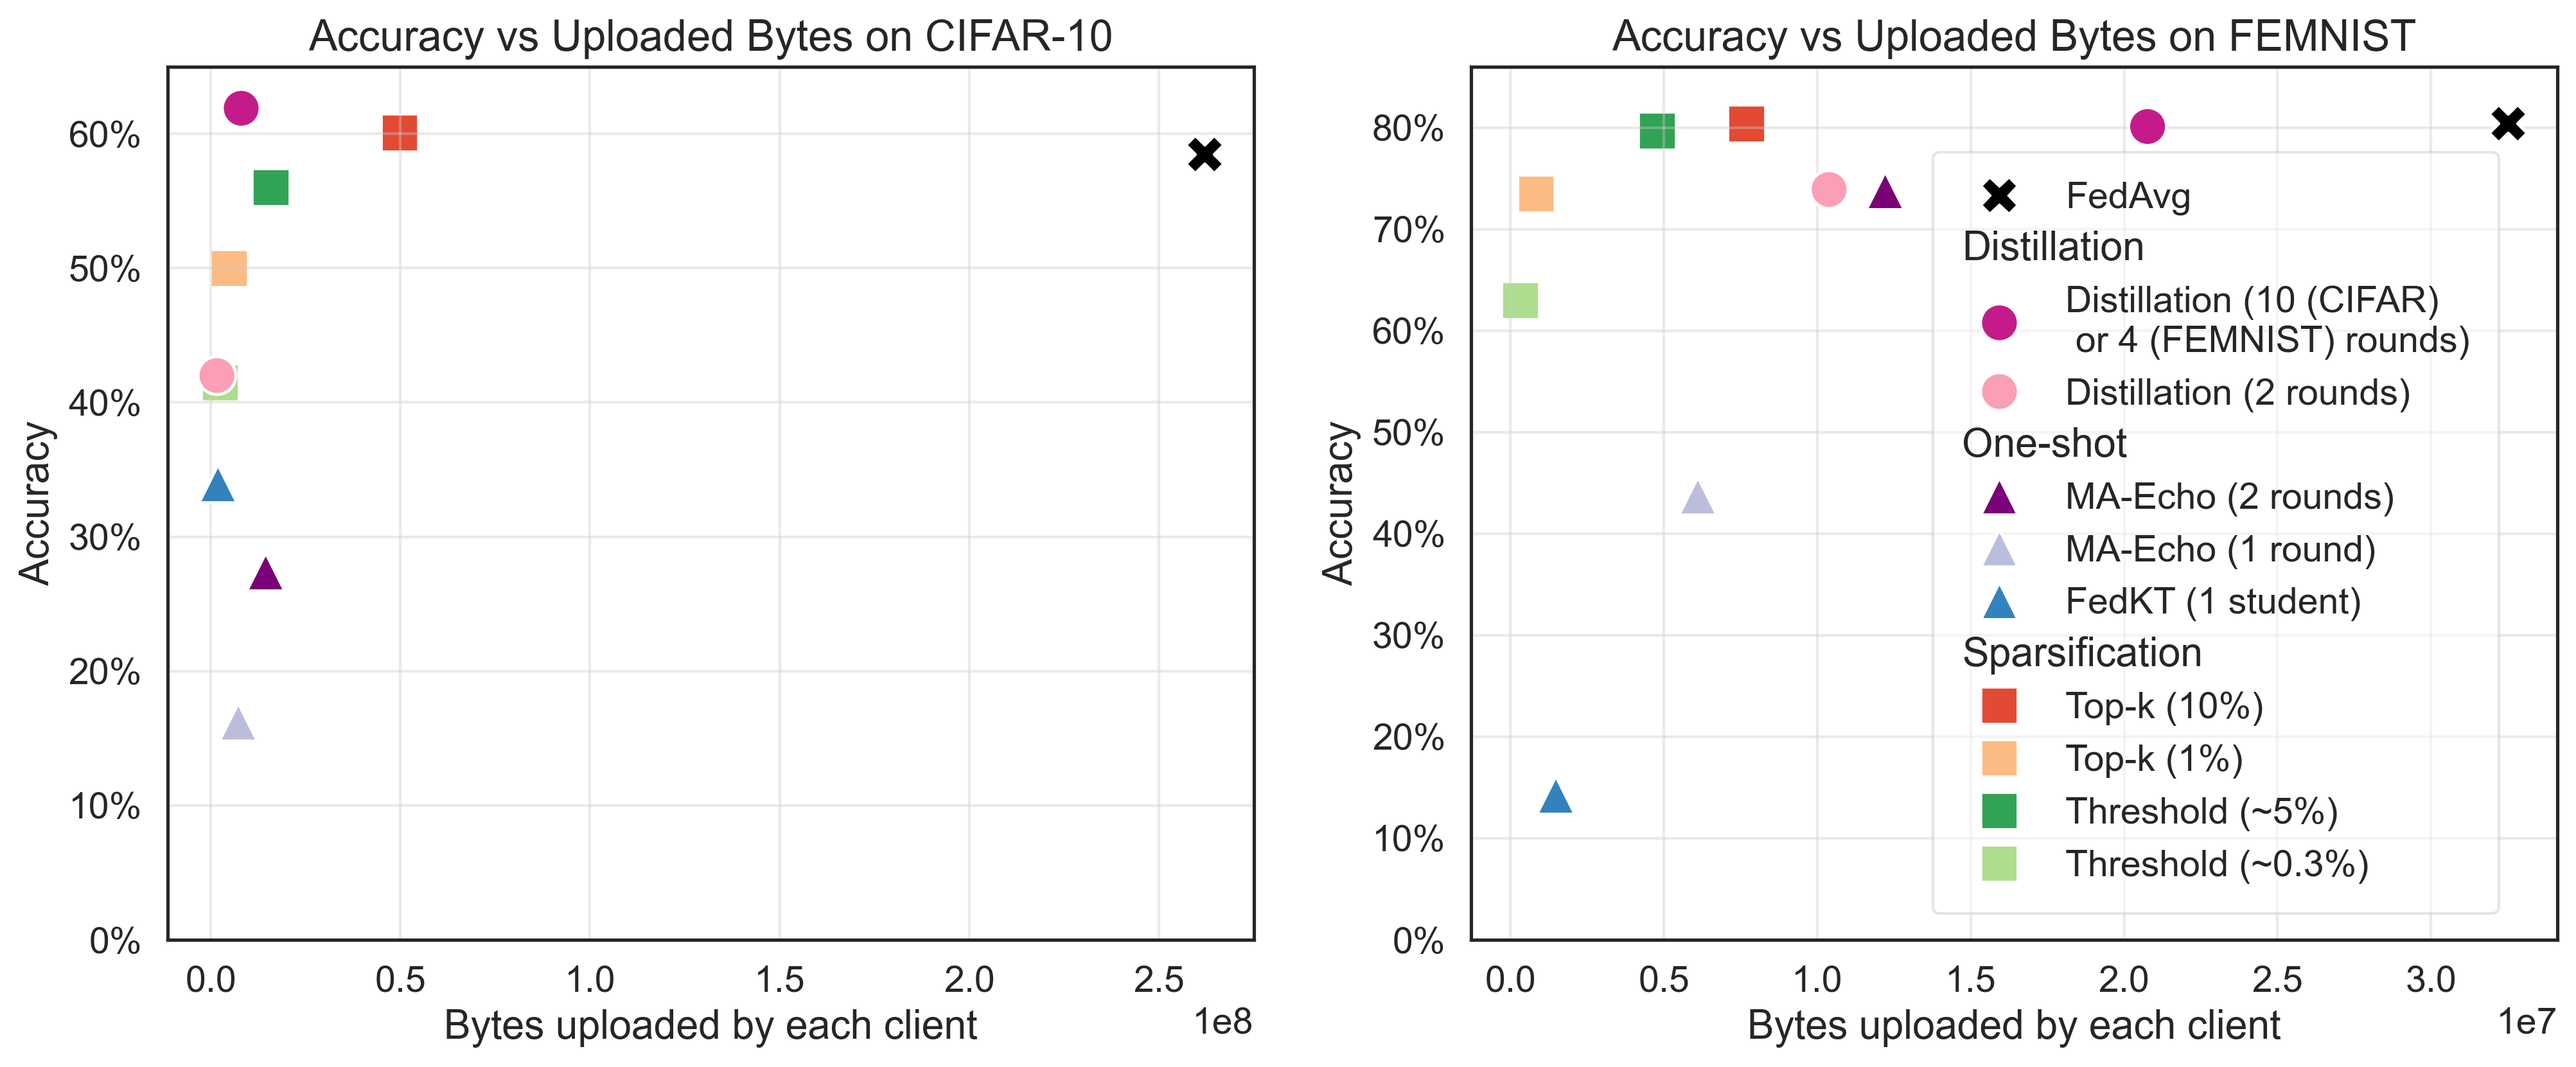
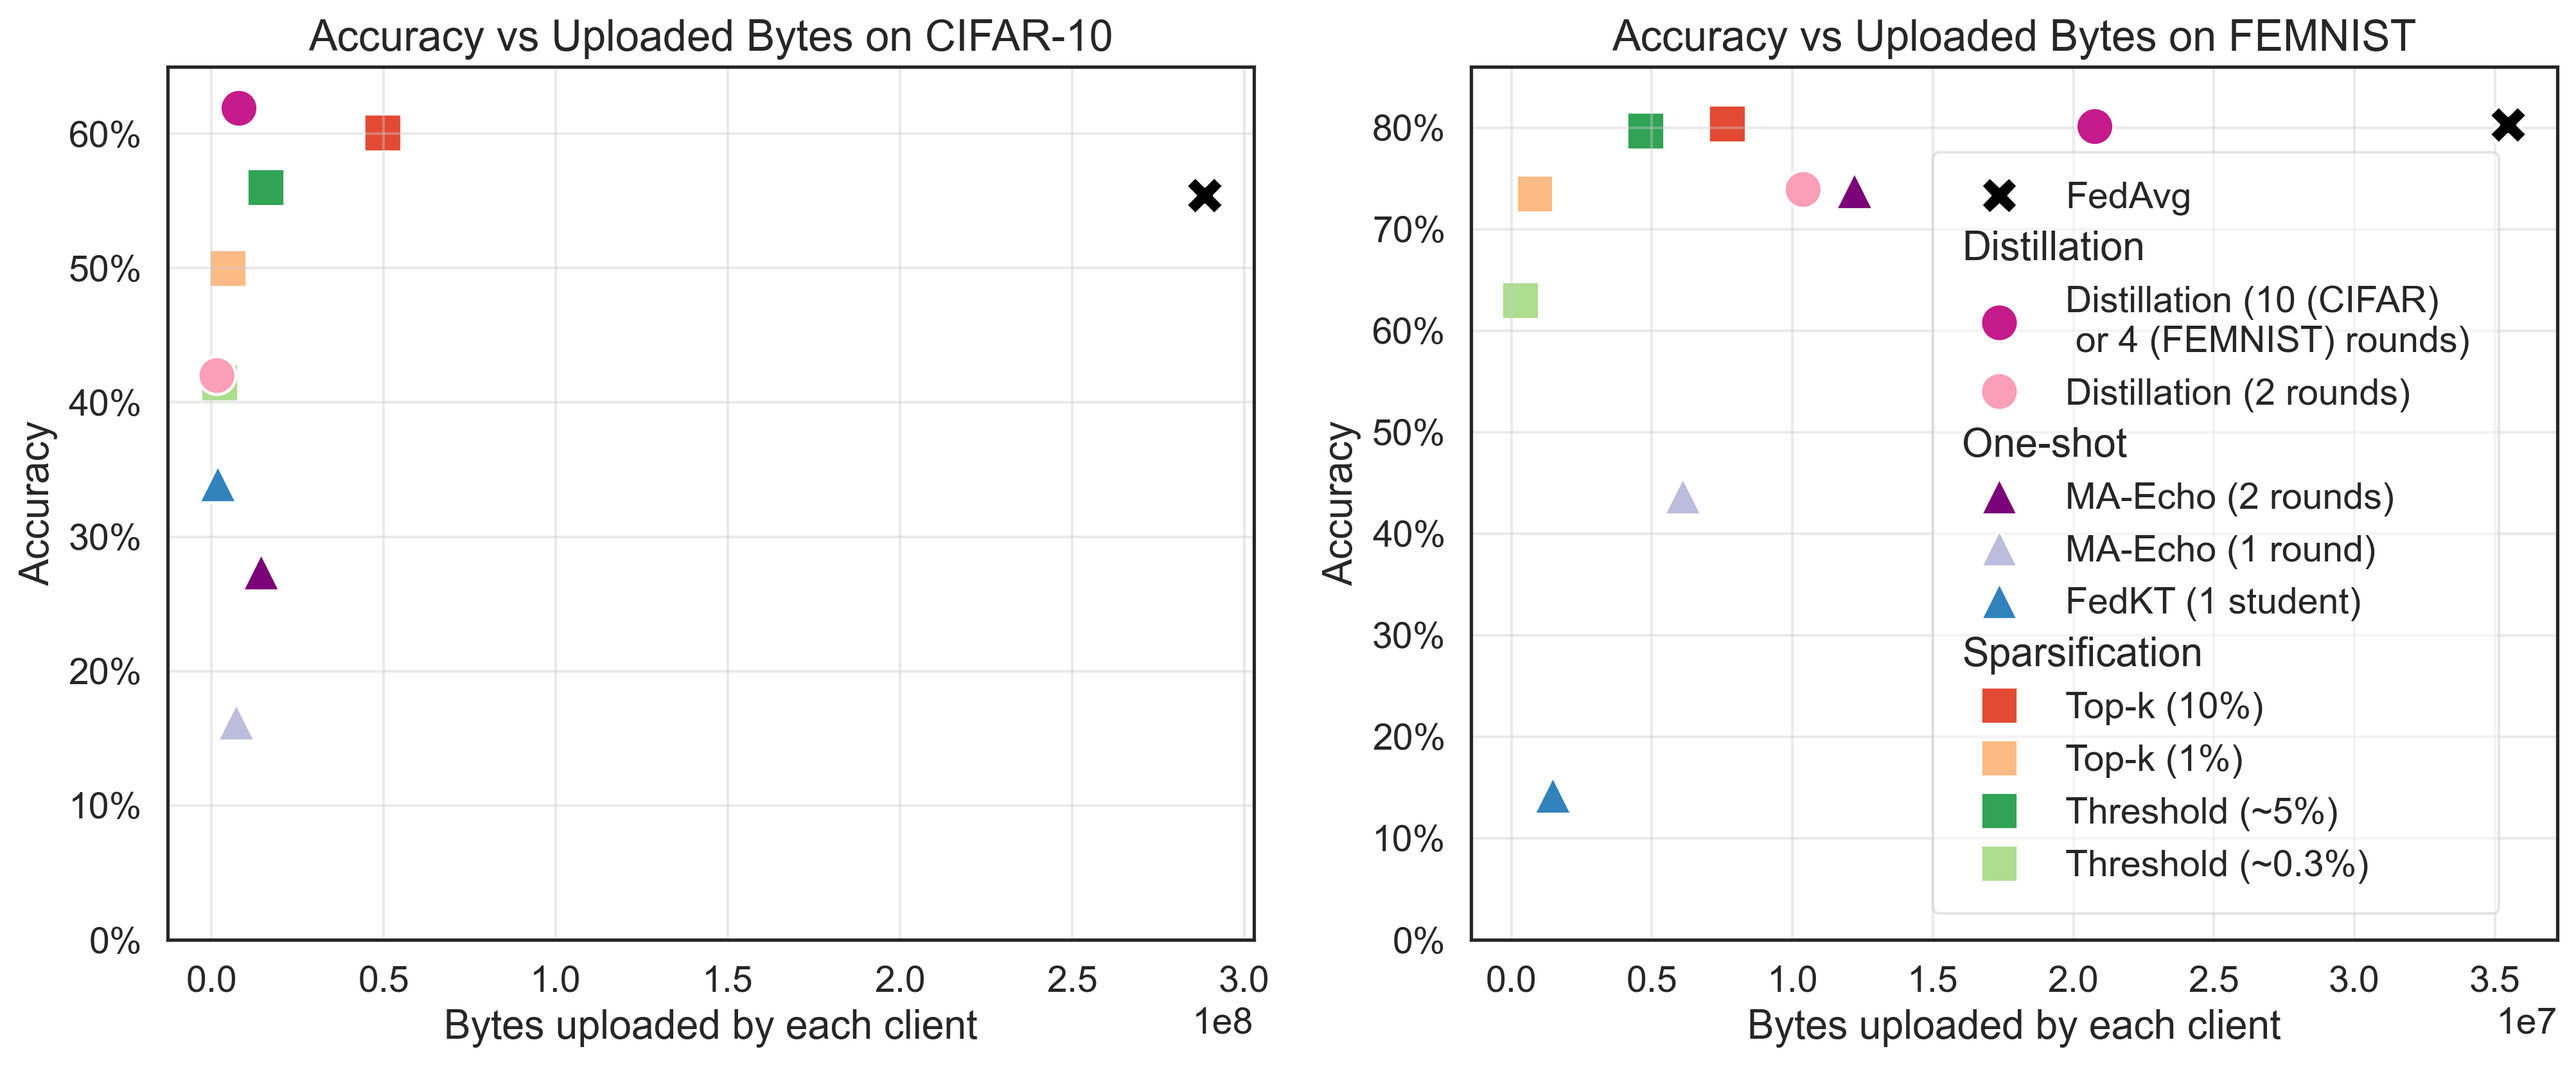
Add FedAvg results

diff --git a/fed_avg/fedavg.py b/fed_avg/fedavg.py
@@ -1,0 +1,108 @@
+# Code by Natasha
+# Last updated 01/03/2024
+
+import models
+import utils
+import data
+import pandas as pd
+import numpy as np
+import torch
+import torch.nn as nn
+import flwr as fl
+import argparse
+import os
+from datetime import datetime
+from collections import OrderedDict
+    
+class FlowerClient(fl.client.NumPyClient):
+    def __init__(self, cid, net, trainloader, testloader):
+        self.cid = cid
+        self.net = net
+        self.trainloader = trainloader
+        self.testloader = testloader
+
+    def get_parameters(self, config):
+        return [val.cpu().numpy() for _, val in self.net.state_dict().items()]
+    
+    def set_parameters(self, parameters):
+        params_dict = zip(self.net.state_dict().keys(), parameters)
+        state_dict = OrderedDict({k: torch.Tensor(v) for k, v in params_dict})
+        self.net.load_state_dict(state_dict, strict=True)
+
+    def fit(self, parameters, config):
+        self.set_parameters(parameters)
+        utils.train(self.net, self.trainloader, optimiser=args.optimiser, lr=args.learning_rate, epochs=1)
+        return self.get_parameters({}), len(self.trainloader), {}
+
+    def evaluate(self, parameters, config):
+        self.set_parameters(parameters)
+        loss, accuracy = utils.test(self.net, self.testloader)
+        return float(loss), len(self.testloader), {"accuracy": float(accuracy)}
+
+def client_fn(cid) -> FlowerClient:
+    net = models.create_model(args.dataset_name, "CNN500k")
+    trainloader = trainloaders[int(cid)]
+    testloader = testloaders[int(cid)]
+    return FlowerClient(cid, net, trainloader, testloader)
+
+def weighted_average(metrics):
+    accuracies = [num_examples * m["accuracy"] for num_examples, m in metrics]
+    examples = [num_examples for num_examples, _ in metrics]
+    return {"accuracy": sum(accuracies) / sum(examples)}
+
+if __name__ == "__main__":
+    parser = argparse.ArgumentParser(description="Simulate FedAvg")
+    parser.add_argument("--dataset_name", required=True)
+    parser.add_argument("--femnist_location", default="femnist_data")
+    parser.add_argument("--optimiser", default="SGD")
+    parser.add_argument("--learning_rate", default=0.1, type=float)
+    args = parser.parse_args()
+    
+    if args.dataset_name=="femnist":
+        model = models.create_model(args.dataset_name, "CNN500k")
+        num_rounds = 30
+        client_frac = 0.3
+        min_clients = 15
+        trainloaders, testloaders = data.femnist_data(args.femnist_location)
+
+    else: # if dataset_name=="cifar":
+        model = models.create_model(args.dataset_name, "CNN500k")
+        num_rounds = 180
+        client_frac = 0.25
+        min_clients = 12
+        trainloaders, testloaders = data.cifar_data()
+        
+    strategy = fl.server.strategy.FedAvg(
+    fraction_fit=client_frac,
+    fraction_evaluate=client_frac,
+    min_fit_clients=min_clients,
+    min_evaluate_clients=min_clients,
+    min_available_clients=50,
+    evaluate_metrics_aggregation_fn=weighted_average,
+    initial_parameters=fl.common.ndarrays_to_parameters([val.cpu().numpy() for _, val in model.state_dict().items()]),
+    )
+
+    start = datetime.now()
+    history = fl.simulation.start_simulation(
+    client_fn=client_fn,
+    num_clients=50,
+    config=fl.server.ServerConfig(num_rounds=num_rounds),
+    strategy=strategy,
+    client_resources={"num_gpus": 1, "num_cpus": 1},
+    )
+    end = datetime.now()
+    time_taken = end-start
+    
+    results = pd.DataFrame({"time_taken": [time_taken],
+                            "dataset": [args.dataset_name], 
+                            "num_rounds": [num_rounds],
+                            "approach": ["FedAvg"],
+                            "optimiser": [args.optimiser],
+                            "learning_rate": [args.learning_rate], 
+                            "losses": [history.losses_distributed],
+                            "accs": [history.metrics_distributed["accuracy"]],
+                           })
+    if os.path.isfile("fedavg_results.csv"): 
+        results.to_csv("fedavg_results.csv", mode="a", index=False, header=False)
+    else:
+        results.to_csv("fedavg_results.csv", mode="a", index=False, header=True)
